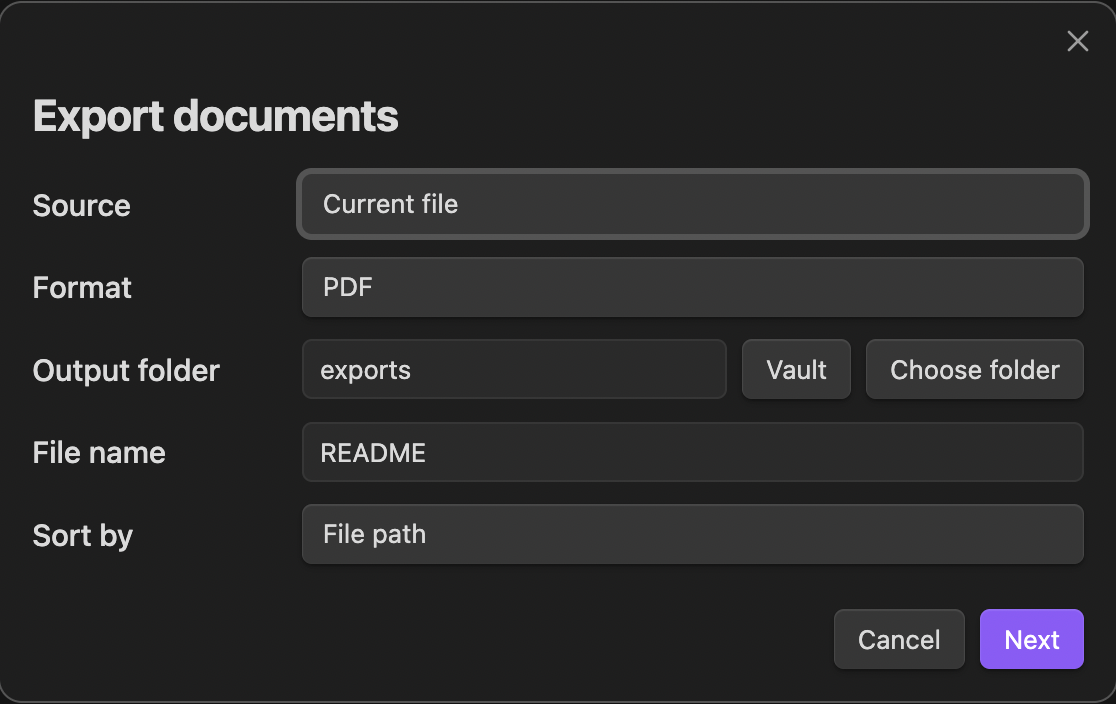
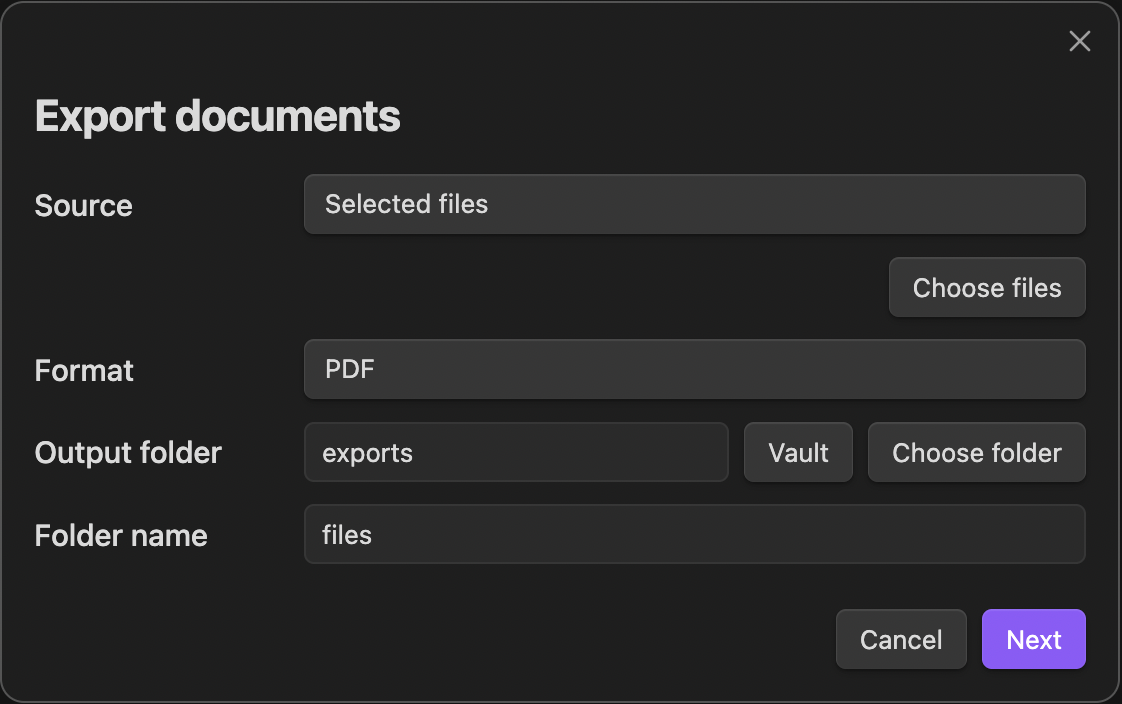
docs: update README to reflect batch export and progress bar features

diff --git a/README.md b/README.md
@@ -1,13 +1,15 @@
 # Document Exporter
 
-Export notes, folders, and filtered results into PDF, Word, Markdown bundles, and HTML documents.
+Export single notes, entire folders, or hand-picked files into PDF, Word, Markdown bundles, and HTML documents. Supports batch export with directory structure preservation.
 
 ## Features
 
+- **Batch export** — export an entire folder or selected files at once, preserving directory structure
 - **PDF** — generates a print-ready `.pdf` with native Obsidian rendering
 - **Word document** — generates a `.docx` document for editing and sharing
-- **Markdown bundle** — combines selected notes into a single `.md` file with copied attachments and rewritten links
+- **Markdown bundle** — combines notes into a single `.md` file with copied attachments and rewritten links
 - **HTML document** — generates a standalone `.html` with table of contents, native rendering, and linked assets
+- **Progress bar with cancel** — visual progress indicator for every export, with a cancel button that preserves already-exported files
 
 ## Usage
 
@@ -25,13 +27,13 @@ Multiple ways to start an export:
 
 <img src="docs/screenshots/document-exporter-main-panel.png" width="560" />
 
-1. Choose **source** — current file, folder, selected files, or tag filter
+1. Choose **source** — current file, folder, or selected files
 2. Choose **format** — PDF, Word document, Markdown bundle, or HTML document
 3. Set **output folder** — type a path, click **Vault** to pick from vault folders, or **Choose folder** to select a system folder (desktop only)
-4. Set **file name** — defaults to the source file or folder name
+4. Set **file name** (single file) or **folder name** (batch export) — defaults to the source file or folder name
 5. Click **Next** → review the summary → click **Export**
 
-A notification shows the output path when export completes.
+A progress bar appears during export showing the current step or file. Click **Cancel** to stop; already-exported files are kept.
 
 ## Examples
 
@@ -44,16 +46,15 @@ A notification shows the output path when export completes.
 ### Export a folder as Markdown bundle
 
 1. Right-click a folder → **Export this folder**
-2. Format: **Markdown bundle**
-3. Click **Export**
-4. Result: `exports/<foldername>.md` + `exports/assets/` (if images exist)
+2. Format: **Markdown bundle** → click **Export**
+3. Result: `exports/<foldername>/<filename>.md` + `assets/` (if images exist)
 
-### Export filtered notes as HTML
+### Export selected files as HTML
 
 1. Start an export from sidebar icon or command palette
-2. Source: **Filter by tag**, Format: **HTML document**
+2. Source: **Selected files** → pick files → Format: **HTML document**
 3. Click **Export**
-4. Result: a standalone `.html` with all matched notes combined and a table of contents
+4. Result: a standalone `.html` per file with linked assets
 
 ## Settings
 
@@ -61,9 +62,8 @@ Open **Settings → Document Exporter**.
 
 | Setting | Description | Default |
 |---------|-------------|---------|
-| Output folder | Where exported files are saved | `exports` |
 | Default export format | Format pre-selected when opening the dialog | PDF |
-| Default sort mode | How notes are ordered in the output | File path |
+| Output folder | Where exported files are saved | `exports` |
 | Include source path comments | Add HTML comments showing each section's origin | Off |
 | Copy attachments | Copy referenced images and files into the export | On |
 | Overwrite existing exports | Overwrite if output already exists; otherwise a timestamped folder is created | Off |